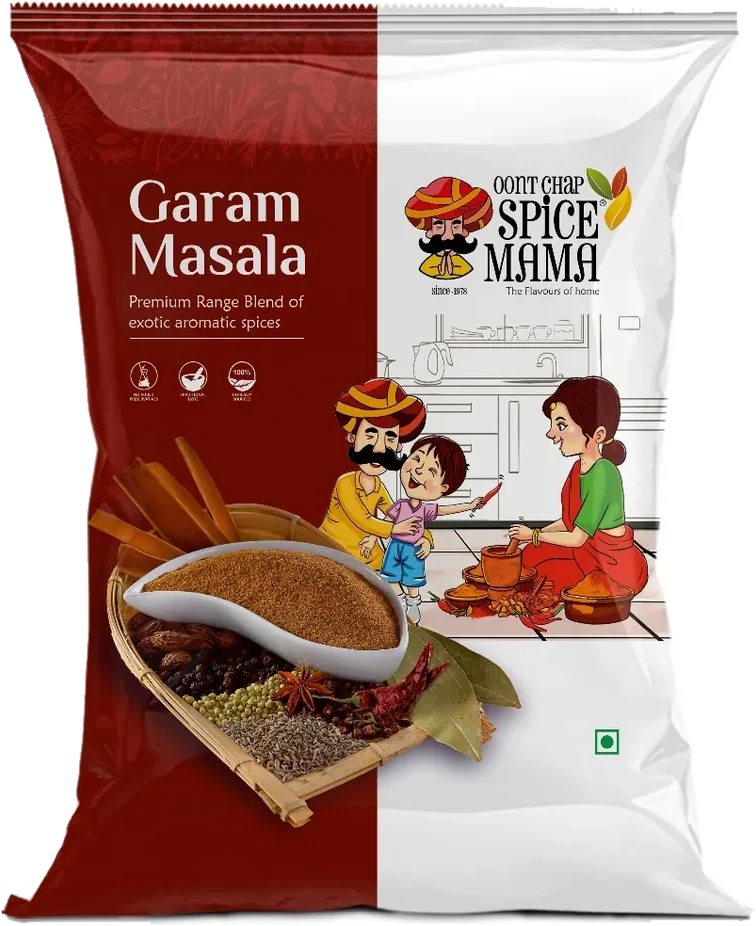
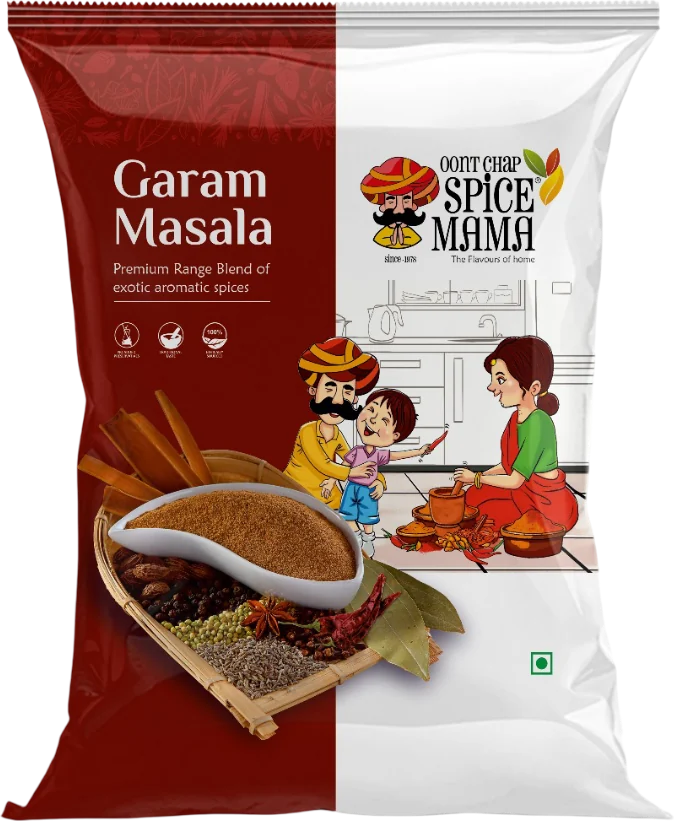
Bring in new pack photos and fix hero text overlapping "Guntur"
- From SpiceMama_Frontend bc256c7: re-exported pack photos, lighter pack
  shadows, equal-width shelf cards, eager-loaded first shelf images
- Hero copy starts higher and its headline scales with viewport height, so
  headline, lede and buttons clear the big "Guntur" word on laptop screens

diff --git a/frontend/assets/css/home.css b/frontend/assets/css/home.css
@@ -17,7 +17,7 @@
 .ctas { display: flex; flex-wrap: wrap; gap: 12px; margin-top: 26px }
 .te-tag { position: absolute; z-index: 3; font-weight: 600; font-size: clamp(22px, 1.8vw, 30px); color: var(--ivory); letter-spacing: .02em; line-height: 1.3; text-align: right; margin: 0 }
 .te-tag span { display: block; font-weight: 400; opacity: .85; font-size: .85em }
-.pouch { position: absolute; z-index: 2; filter: drop-shadow(0 30px 40px rgba(50, 5, 0, .35)) drop-shadow(0 6px 10px rgba(50, 5, 0, .25)) }
+.pouch { position: absolute; z-index: 2; filter: drop-shadow(0 14px 16px rgba(50, 5, 0, .2)) }
 .origin { z-index: 3; color: var(--ivory) }
 .origin h2 { font-size: clamp(38px, 4.2vw, 72px); max-width: 12ch; margin-bottom: 22px }
 .origin p { max-width: 44ch; color: #FFEDE3 }
@@ -32,7 +32,12 @@
 .motion .stage { position: sticky; top: 0; height: 100vh; height: 100svh }
 .motion .layer.ivory { clip-path: inset(0 calc(100% - var(--seam, 50%)) 0 0) }
 .motion .layer.red { clip-path: inset(0 0 0 var(--seam, 50%)) }
-.motion .hero-copy { position: absolute; left: var(--pad); top: 22vh; width: min(40vw, 560px) }
+/* Copy sits high and scales with viewport height too, so headline, lede and buttons stay clear of
+   the big "Guntur" word (its top is about 14.85vw above the bottom of the screen). */
+.motion .hero-copy { position: absolute; left: var(--pad); top: max(96px, 14vh); width: min(40vw, 560px) }
+.motion .hero-copy h1 { font-size: clamp(30px, min(3.4vw, 6vh), 58px); max-width: 13ch }
+.motion .hero-copy .lede { font-size: 1rem; margin-top: 12px }
+.motion .hero-copy .ctas { margin-top: 18px }
 .motion .te-tag { right: var(--pad); top: 16vh }
 .motion .pouch { left: 50%; top: 52%; height: min(72vh, 780px); width: auto; transform: translate(-50%, -50%) translate(var(--px, 0), var(--py, 0)) rotate(var(--pr, -5deg)) scale(var(--ps, 1)); will-change: transform }
 .motion .origin { position: absolute; left: var(--pad); top: 50%; transform: translateY(calc(-50% + var(--oy, 30px))); opacity: var(--oo, 0); width: min(48vw, 640px); pointer-events: var(--opev, none); visibility: var(--ovis, hidden) }
@@ -82,16 +87,18 @@ html:not(.motion) .origin { padding: 64px var(--pad) 90px }
 .progress { font-weight: 600; font-size: .92rem; opacity: .85; margin: 0 }
 
 .motion .range-stage { position: sticky; top: 0; height: 100vh; height: 100svh; overflow: hidden; display: flex; align-items: center }
-.motion .track { display: flex; align-items: flex-end; gap: 7vw; padding: 0 12vw 0 var(--pad); will-change: transform }
+.motion .track { display: flex; align-items: flex-start; gap: 7vw; padding: 0 12vw 0 var(--pad); will-change: transform }
+/* Same width and same pack box for every card, so packs and text line up whatever the title length. */
+.motion .card { width: clamp(280px, 26vw, 400px) }
 .motion .range-intro { flex: none; width: min(30vw, 440px); align-self: center }
-.motion .card img { height: min(54vh, 560px); width: auto }
+.motion .card img { height: min(54vh, 560px); width: 100%; object-fit: contain; object-position: left bottom }
 .motion .card:not(.on) img { transform: scale(.9) }
 .motion .progress { position: absolute; left: var(--pad); bottom: calc(env(safe-area-inset-bottom, 0px) + 34px) }
 html:not(.motion) .range { --bg: var(--ivory); --fg: var(--ink); padding: 90px 0 70px }
 html:not(.motion) .track { display: flex; gap: 22px; overflow-x: auto; scroll-snap-type: x mandatory; padding: 0 var(--pad) 24px; scrollbar-width: thin; overscroll-behavior-x: contain }
 html:not(.motion) .range-intro { flex: none; width: min(78vw, 380px); scroll-snap-align: start }
 html:not(.motion) .card { scroll-snap-align: center; width: min(72vw, 300px); background: var(--c); color: var(--cf); border-radius: var(--r-lg); padding: 22px 20px 24px }
-html:not(.motion) .card img { height: 300px; width: auto; margin: 0 auto }
+html:not(.motion) .card img { height: 300px; width: 100%; object-fit: contain; object-position: center bottom }
 html:not(.motion) .card.end, html:not(.motion) .card.state-card { background: var(--white); color: var(--ink); border: 1.5px solid var(--line) }
 html:not(.motion) .card.is-skel { padding: 0; height: 460px; background: none }
 html:not(.motion) .progress { display: none }

diff --git a/frontend/index.html b/frontend/index.html
@@ -71,7 +71,7 @@
       </div>
     </div>
     <p class="te-tag" lang="te">గుంటూరు<span>ఆంధ్రప్రదేశ్</span></p>
-    <img class="pouch" src="/assets/images/packs/guntur-gold-premium-chilli-powder.webp" width="728" height="1099" alt="Spice Mama Guntur Gold Premium Chilli Powder stand-up pouch" fetchpriority="high">
+    <img class="pouch" src="/assets/images/packs/guntur-gold-premium-chilli-powder.webp" width="721" height="1089" alt="Spice Mama Guntur Gold Premium Chilli Powder stand-up pouch" fetchpriority="high">
     <div class="origin" id="story">
       <p class="since">Since <b>1978</b></p>
       <h2>Opposite the Market Yard, Guntur.</h2>
@@ -119,7 +119,7 @@
     <div>
       <h3>Tomato rasam</h3>
       <p class="meta">Serves 4 · 25 minutes</p>
-      <a class="uses" href="/product.html?slug=rasam-powder"><img src="/assets/images/packs/rasam-powder-sm.webp" width="400" height="490" alt="" loading="lazy" decoding="async"><span>Made with Spice Mama Rasam Powder</span></a>
+      <a class="uses" href="/product.html?slug=rasam-powder"><img src="/assets/images/packs/rasam-powder-sm.webp" width="400" height="491" alt="" loading="lazy" decoding="async"><span>Made with Spice Mama Rasam Powder</span></a>
       <h4>You need</h4>
       <ul><li>A lime-sized ball of tamarind, soaked in 2 cups warm water</li><li>2 ripe tomatoes, crushed by hand</li><li>1½ tsp rasam powder, ¼ tsp turmeric powder, salt</li><li>½ cup thin cooked toor dal water</li><li>Ghee, mustard seeds, 2 dried red chillies, curry leaves, a pinch of hing, coriander leaves</li></ul>
       <h4>Method</h4>

diff --git a/frontend/assets/js/home.js b/frontend/assets/js/home.js
@@ -42,12 +42,13 @@ const target = (q, w) => w * 0.5 + Math.max(0, c1 - w * 0.5) * seg(q, 0.8, 1);
 const motionOn = () => root.classList.contains('motion');
 
 // ---------- range cards ----------
-function productCard(p) {
+function productCard(p, i = 0) {
   const look = lookFor(p);
   const im = primaryImage(p);
   return h('article', { class: 'card', id: `p-${p.slug}`, dataset: { c: look.c, f: look.f }, vars: { '--c': look.c, '--cf': look.f } },
     im
-      ? h('img', { src: im.url, alt: im.alt_text || p.name, loading: 'lazy', decoding: 'async' })
+      // First packs load straight away so the shelf isn't blank as it scrolls into view.
+      ? h('img', { src: im.url, alt: im.alt_text || p.name, loading: i < 4 ? 'eager' : 'lazy', decoding: 'async' })
       : h('div', { class: 'noimg ph', style: { height: '40vh', display: 'grid', placeItems: 'center', width: '100%' } }, 'Photo to come'),
     look.line ? h('p', { class: 'maker' }, look.line) : h('p', { class: 'maker' }, ''),
     h('h3', {}, h('a', { href: links.product(p.slug) }, p.name)),
@@ -82,7 +83,7 @@ async function loadRange() {
       rangeStatus.textContent = 'No products to show yet.';
       ptotal.textContent = '0';
     } else {
-      list.forEach((p) => track.append(productCard(p)));
+      list.forEach((p, i) => track.append(productCard(p, i)));
       if (total > list.length) track.append(endCard(total));
       ptotal.textContent = String(list.length);
       rangeStatus.textContent = `Showing ${list.length} of ${total} products.`;

diff --git a/frontend/assets/css/pages.css b/frontend/assets/css/pages.css
@@ -40,7 +40,7 @@
 .pd { display: grid; grid-template-columns: minmax(0, 1fr) minmax(0, 1fr); gap: clamp(28px, 5vw, 80px); align-items: start }
 .gallery { position: sticky; top: calc(env(safe-area-inset-top, 0px) + 100px) }
 .stagebox { background: var(--c, var(--red)); border-radius: var(--r-xl); aspect-ratio: 1 / 1.05; display: grid; place-items: center; padding: clamp(24px, 4vw, 56px); overflow: hidden; position: relative }
-.stagebox img { max-height: 100%; width: auto; max-width: 100%; object-fit: contain; filter: drop-shadow(0 30px 40px rgba(0, 0, 0, .3)); animation: pack-in .6s var(--ease-out) }
+.stagebox img { max-height: 100%; width: auto; max-width: 100%; object-fit: contain; filter: var(--shadow-pack); animation: pack-in .6s var(--ease-out) }
 @keyframes pack-in { from { opacity: 0; transform: translateY(16px) rotate(-2deg) scale(.97) } }
 .stagebox .noimg { color: var(--cf, var(--ivory)); border: 1.5px dashed currentColor; border-radius: var(--r-md); padding: 24px; text-align: center; opacity: .85 }
 .thumbs { display: flex; gap: 10px; margin-top: 12px; overflow-x: auto; padding: 4px 2px }

diff --git a/frontend/about.html b/frontend/about.html
@@ -68,7 +68,7 @@
       <div class="pack-row reveal" aria-hidden="true">
         <img src="/assets/images/packs/oont-chap-chilli-powder-sm.webp" width="400" height="558" alt="" loading="lazy" decoding="async">
         <img src="/assets/images/packs/guntur-gold-premium-chilli-powder-sm.webp" width="400" height="604" alt="" loading="lazy" decoding="async">
-        <img src="/assets/images/packs/turmeric-powder-sm.webp" width="400" height="606" alt="" loading="lazy" decoding="async">
+        <img src="/assets/images/packs/turmeric-powder-sm.webp" width="400" height="610" alt="" loading="lazy" decoding="async">
       </div>
     </div>
     <div class="houses">

diff --git a/frontend/assets/css/tokens.css b/frontend/assets/css/tokens.css
@@ -38,7 +38,7 @@
   --r-xl: 28px;
   --r-pill: 999px;
   --shadow-chip: 0 6px 20px rgba(60, 10, 5, .14);
-  --shadow-pack: drop-shadow(0 22px 30px rgba(0, 0, 0, .28));
+  --shadow-pack: drop-shadow(0 10px 12px rgba(0, 0, 0, .14));
 
   /* motion */
   --ease-out: cubic-bezier(.22, 1, .36, 1);
